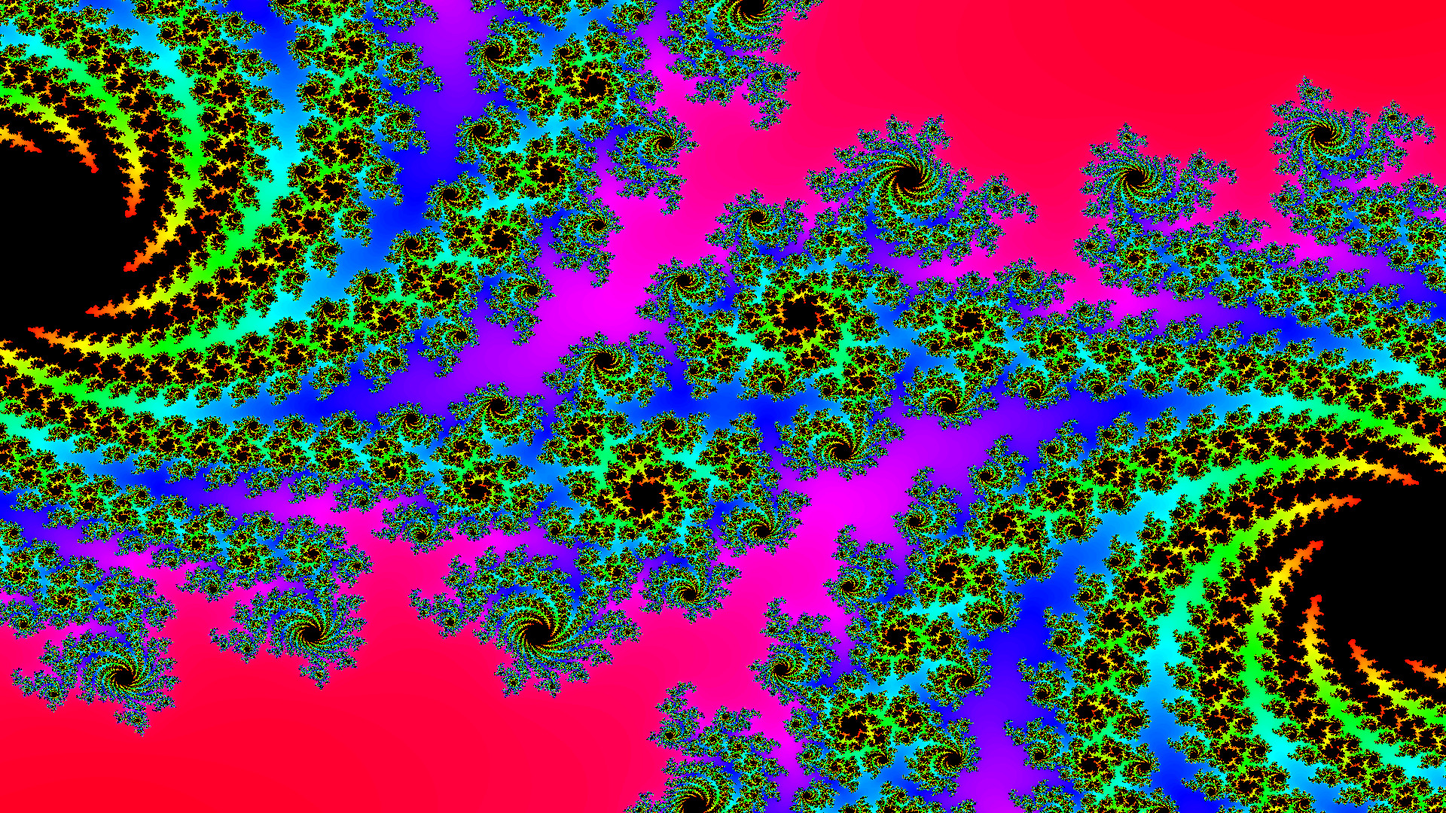
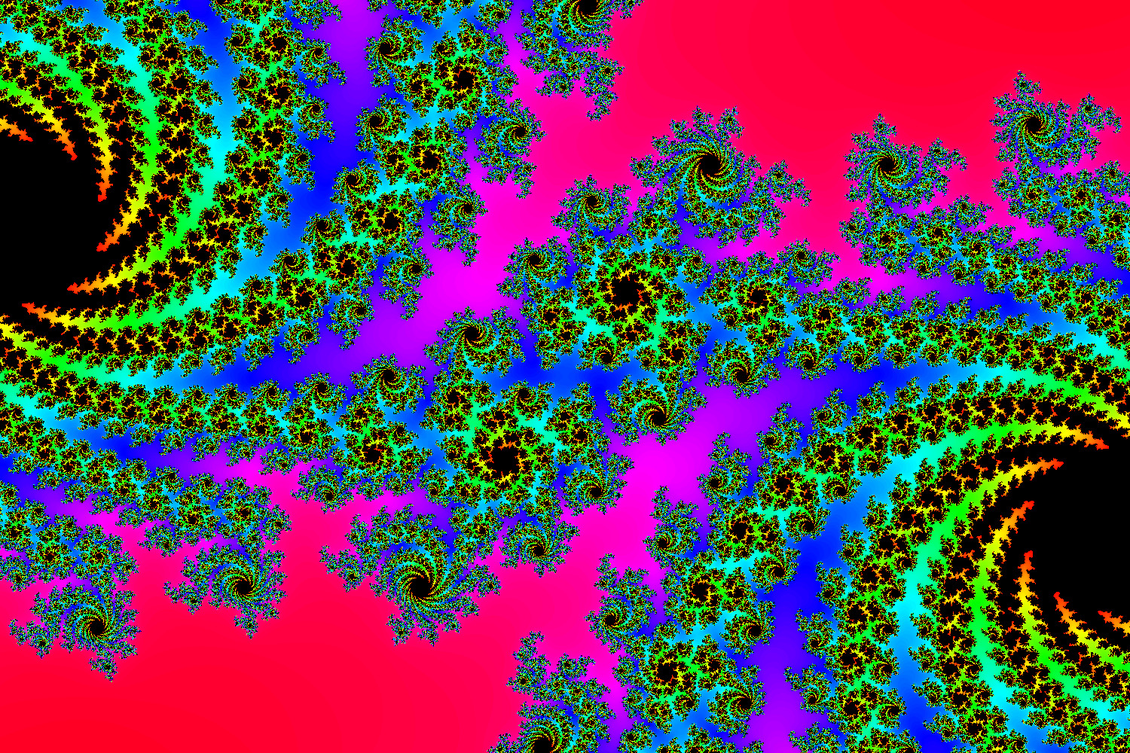
Added comments to main.c

diff --git a/main.c b/main.c
@@ -2,87 +2,89 @@
 #include "Header/fractals.h"
 
 int main() {
-	fprintf(stdout,"Process has started.\nPlease wait patiently...\n");
+	fprintf(stdout,"Process has started.\nPlease wait patiently...\n");		// start program
 
+	// image manipulation
 
-	PPMImage *img = readPPM("./Examples/Image Manipulation/west_1.ppm");
-	invertColor(img);
-	writePPM("./Examples/Image Manipulation/west_1_negative.ppm", img);
-	deletePPMImage(img);
+	PPMImage *img = readPPM("./Examples/Image Manipulation/west_1.ppm");	// read input image
+	invertColor(img);														// apply negative filter
+	writePPM("./Examples/Image Manipulation/west_1_negative.ppm", img);		// write the new image
+	deletePPMImage(img);													// delete image data from memory
 	
 	img = readPPM("./Examples/Image Manipulation/west_1.ppm");
-	weightedGrayscaleFilter(img);
+	weightedGrayscaleFilter(img);											// apply grayscale filter
 	writePPM("./Examples/Image Manipulation/west_1_grayscale.ppm", img);
 	deletePPMImage(img);
 	
 	img = readPPM("./Examples/Image Manipulation/west_1.ppm");
-	sepiaFilter(img);
+	sepiaFilter(img);														// apply sepia filter
 	writePPM("./Examples/Image Manipulation/west_1_sepia.ppm", img);
 	deletePPMImage(img);
 	
 	img = readPPM("./Examples/Image Manipulation/west_1.ppm");
-	adjustSaturation(img, 50);
+	adjustSaturation(img, 50);												// adjust the saturation of image to 50%
 	writePPM("./Examples/Image Manipulation/west_1_saturated_50.ppm",img);
 	deletePPMImage(img);
 	
 	img = readPPM("./Examples/Image Manipulation/west_1.ppm");
-	resizeImage(img, 1280, 760);
+	resizeImage(img, 1280, 760);											// resize the image to 1280x760
 	writePPM("./Examples/Image Manipulation/west_1_resized_1280x760.ppm", img);
 	deletePPMImage(img);
 	
 	img = readPPM("./Examples/Image Manipulation/west_1.ppm");
-	adjustHue(img, 135);
+	adjustHue(img, 135);													// adjust the hue of image to 135
 	writePPM("./Examples/Image Manipulation/west_1_hue_135.ppm", img);
 	deletePPMImage(img);
 	
 	img = readPPM("./Examples/Image Manipulation/west_1.ppm");
-	adjustBrightness(img, 50);
+	adjustBrightness(img, 50);												// adjust the brightness of image to 50%
 	writePPM("./Examples/Image Manipulation/west_1_brightness_50.ppm", img);
 	deletePPMImage(img);
 	
 	img = readPPM("./Examples/Image Manipulation/west_1.ppm");
-	adjustContrast(img, 50);
+	adjustContrast(img, 50);												// adjust the contrast of image to 50%
 	writePPM("./Examples/Image Manipulation/west_1_contrast_50.ppm", img);
 	deletePPMImage(img);
 	
 	img = readPPM("./Examples/Image Manipulation/west_1.ppm");
-	adjustBlur(img, 3);
+	adjustBlur(img, 3);														// blur the image by a sigma factor of 3
 	writePPM("./Examples/Image Manipulation/west_1_blurred_3.ppm", img);
 	deletePPMImage(img);
 
 
+	// fractal generation
 
 	img = createPPMImage(750, 750, BLACK);
-	drawKochCurve(-350, -350, 350, 350, 5, img, RED);
+	drawKochCurve(-350, -350, 350, 350, 5, img, RED);						// draw a red Koch curve from (-350, -350) to (350, 350) with 5 iterations
 	rotateImage(img, 2);
-	drawMultipleCircles(0, 0, 300, 15, 20, img, BLUE);
+	drawMultipleCircles(0, 0, 300, 15, 20, img, BLUE);						// draw 15 blue multiple circles centered at (0, 0) with outermost radius 300
 	writePPM("./Examples/Fractals/Koch_curve_and_15_circles.ppm", img);
 	deletePPMImage(img);
 
-	img = drawMandelbrotSet(1800, 1800);
-	drawKochCurve(-850, -850, -250, -250, 5, img, BLUE);
-	drawCircleFractal_xyPlane(-550, 550, 300, img, PURPLE);
+	img = drawMandelbrotSet(1800, 1800);									// draw Mandelbrot set
+	drawKochCurve(-850, -850, -250, -250, 5, img, BLUE);					// draw Koch curve
+	drawCircleFractal_xyPlane(-550, 550, 300, img, PURPLE);					// draw a circle fractal spreading over xy plane
 	drawSierpinskiUtil2(550, -550, 400, img, CYAN);
-	drawSierpinski(550, -550, 200, img, GREEN);
-	drawTree(550, 300, -90, 10, 10, img, YELLOW);
+	drawSierpinski(550, -550, 200, img, GREEN);								// draw Sierpinski triangle
+	drawTree(550, 300, -90, 10, 10, img, YELLOW);							// draw tree fractal
 	writePPM("./Examples/Fractals/all_in_1.ppm", img);
 	deletePPMImage(img);
 	
-	img = drawJulia(1920, 1080, 3);
+	img = drawJulia(1500, 1000, 3);											// draw Julia set with a zoom factor of 3
 	writePPM("./Examples/Fractals/Julia_set_z3.ppm", img);
 	deletePPMImage(img);
 	
 	img = createPPMImage(800, 800, RED);
-	drawBarnsleyFern(1000000, 75, img);
+	drawBarnsleyFern(1000000, 75, img);										// draw Barnsley fern with a million iterations
 	writePPM("./Examples/Fractals/fern_i1000000.ppm", img);
 	deletePPMImage(img);
 	
 	img = createPPMImage(500, 500, YELLOW);
-	drawYinYangFractal(0, 0, 200, 0.4, 4, BLACK, WHITE, img);
+	drawYinYangFractal(0, 0, 200, 0.4, 4, BLACK, WHITE, img);				// draw a black and white yin yang fractal with 4 iterations
 	writePPM("./Examples/Fractals/yinyang_r200_i4.ppm", img);
 	deletePPMImage(img);
 
 
-	fprintf(stdout, "Image manipulation complete.\nProcess terminated successfully...");
+	fprintf(stdout, "Image manipulation complete.\nProcess terminated successfully...");	// end program
 	return 0;
 }

diff --git a/Header/fractals.h b/Header/fractals.h
@@ -64,7 +64,11 @@ void drawKochCurveUtil(Point p1, Point p2, unsigned int iteration, PPMImage *img
 	}
 }
 
-// draws the Koch curve on the given image, the curve becomes more and more detailed as the "iteration" number increases
+// draws the Koch curve on the given image where:
+// (x1, y1): x and y coordinates of the starting point of Koch curve
+// (x2, y2): x and y coordinates of the end point of Koch curve
+// iteration: number of iterations (the curve becomes more and more detailed as the "iteration" number increases)
+// color: color of the Koch curve
 void drawKochCurve(int x1, int y1, int x2, int y2, unsigned int iteration, PPMImage *img, PPMPixel color) {
 	Point p1 = (Point){x1, y1};
 	Point p2 = (Point){x2, y2};

diff --git a/Header/shapes.h b/Header/shapes.h
@@ -42,8 +42,8 @@ void drawMultipleCircles(int xc, int yc, unsigned int radius, unsigned int gap, 
 }
 
 // draws a line on the given image where:
-// (x1, y1): x and y coordinates of the starting point of the line
-// (x2, y2): x and y coordinates of the end point of the line
+// (x1, y1): x and y coordinates of the starting point of line
+// (x2, y2): x and y coordinates of the end point of line
 // color: color of the line
 void drawLine(int x1, int y1, int x2, int y2, PPMImage *img, PPMPixel color) {
 	int dx = x2 - x1, dy = y2 - y1;
